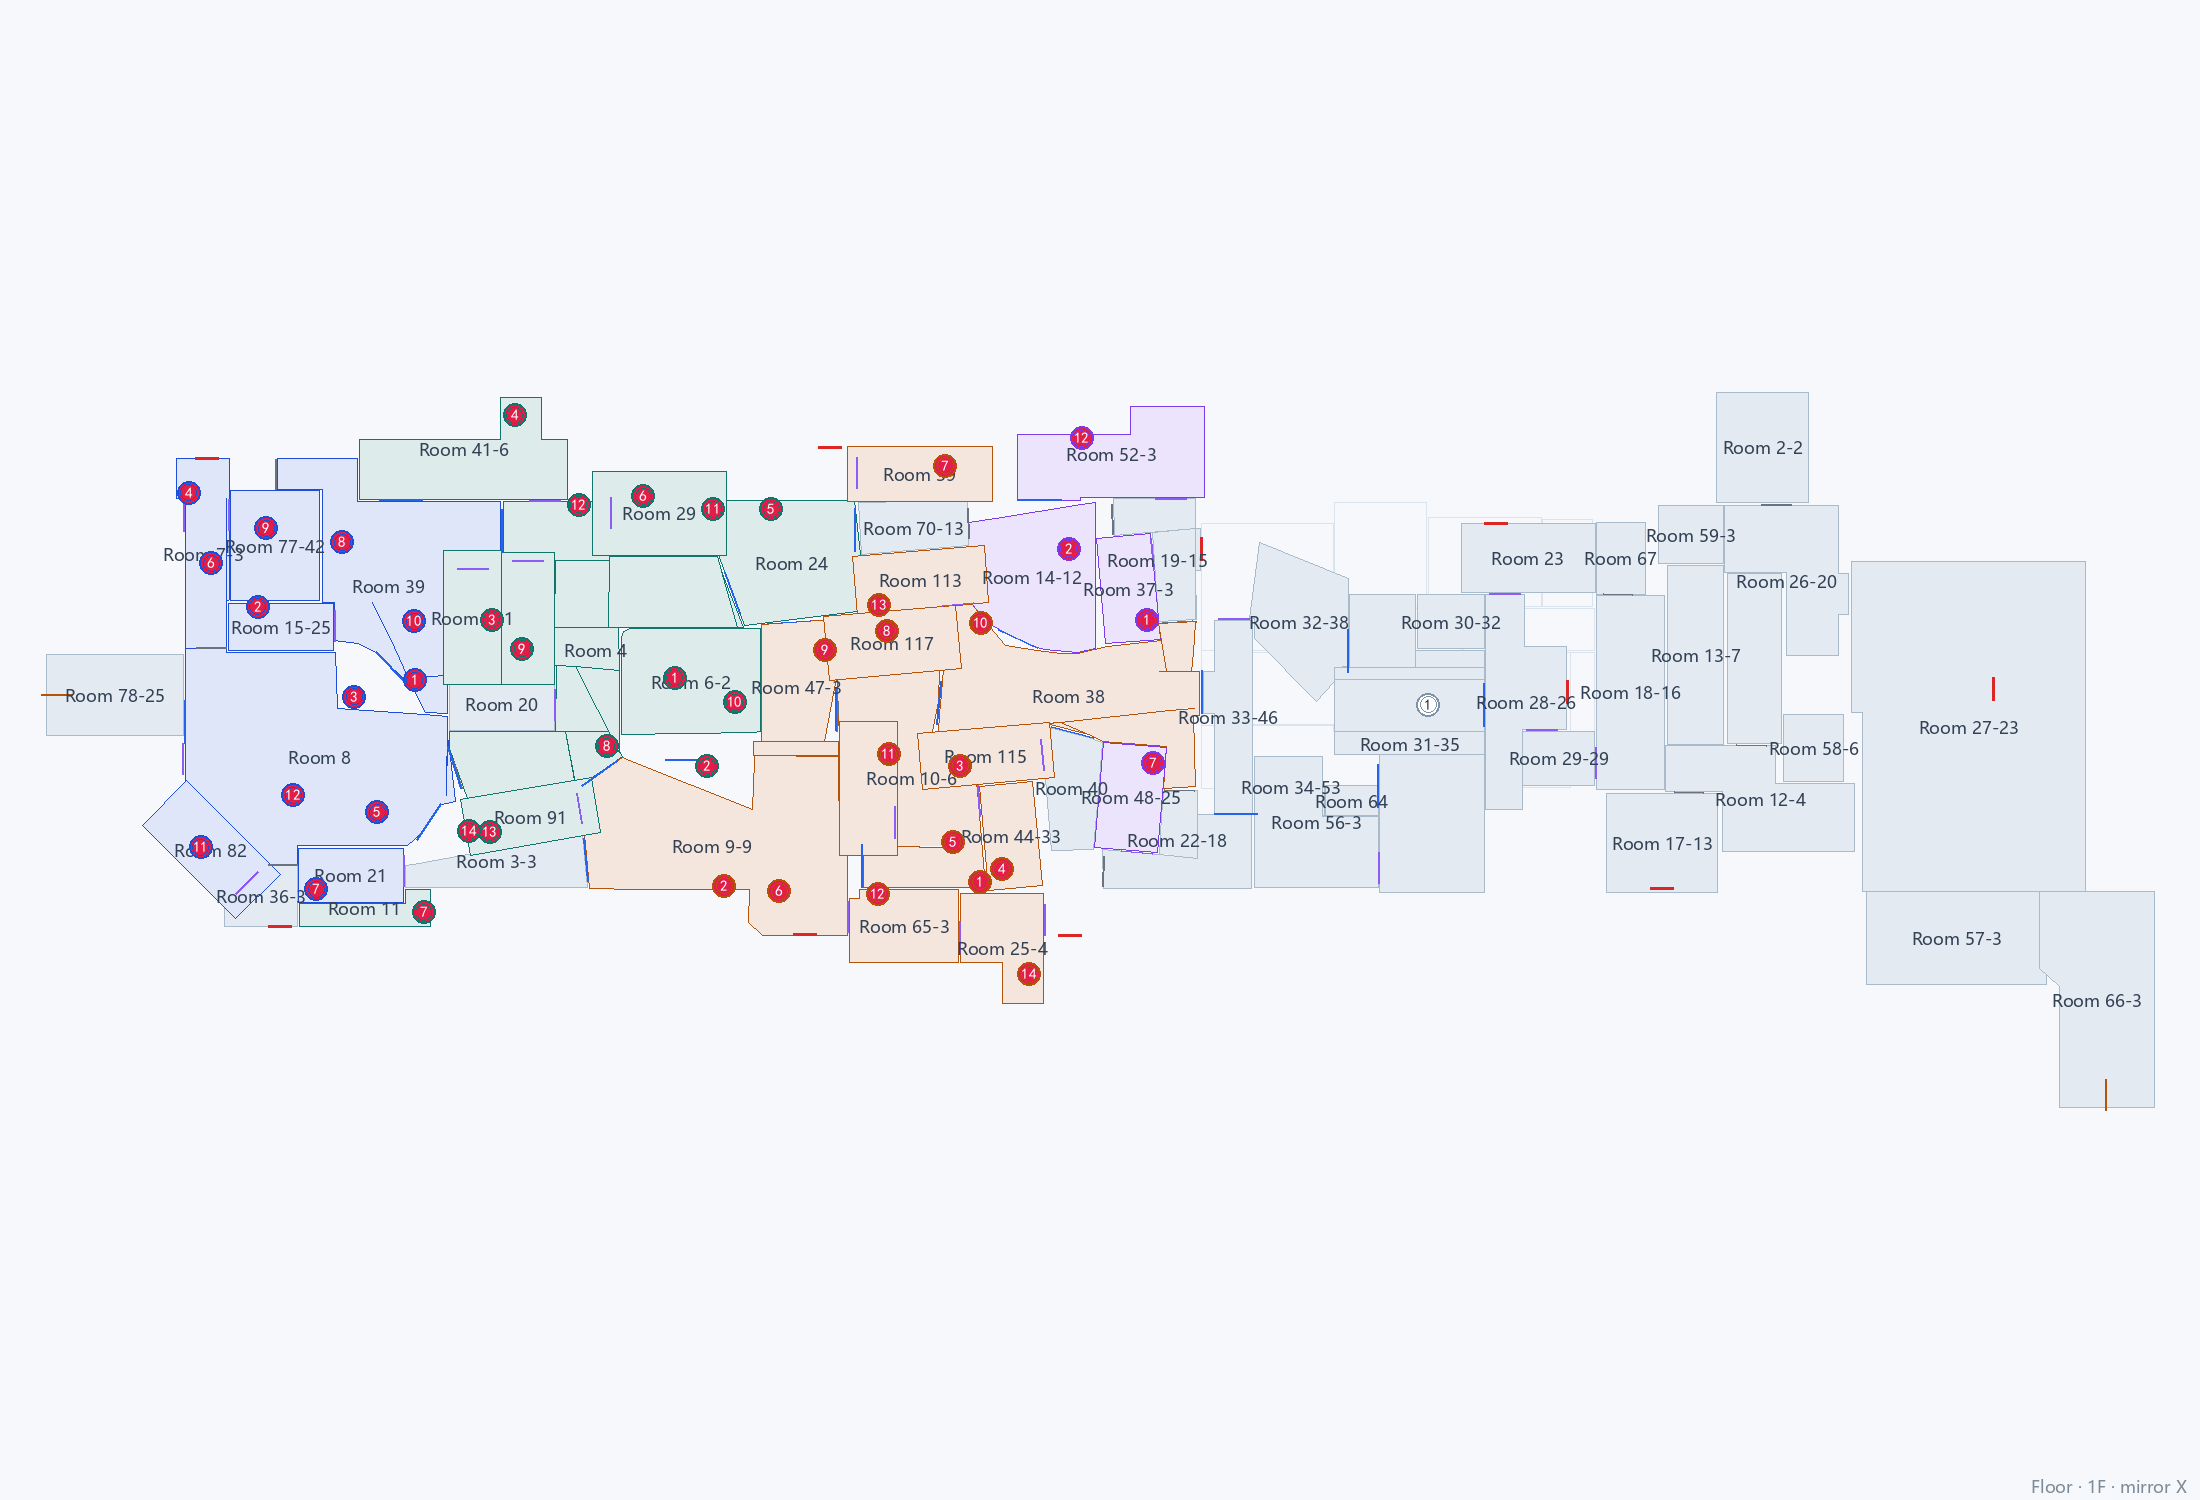
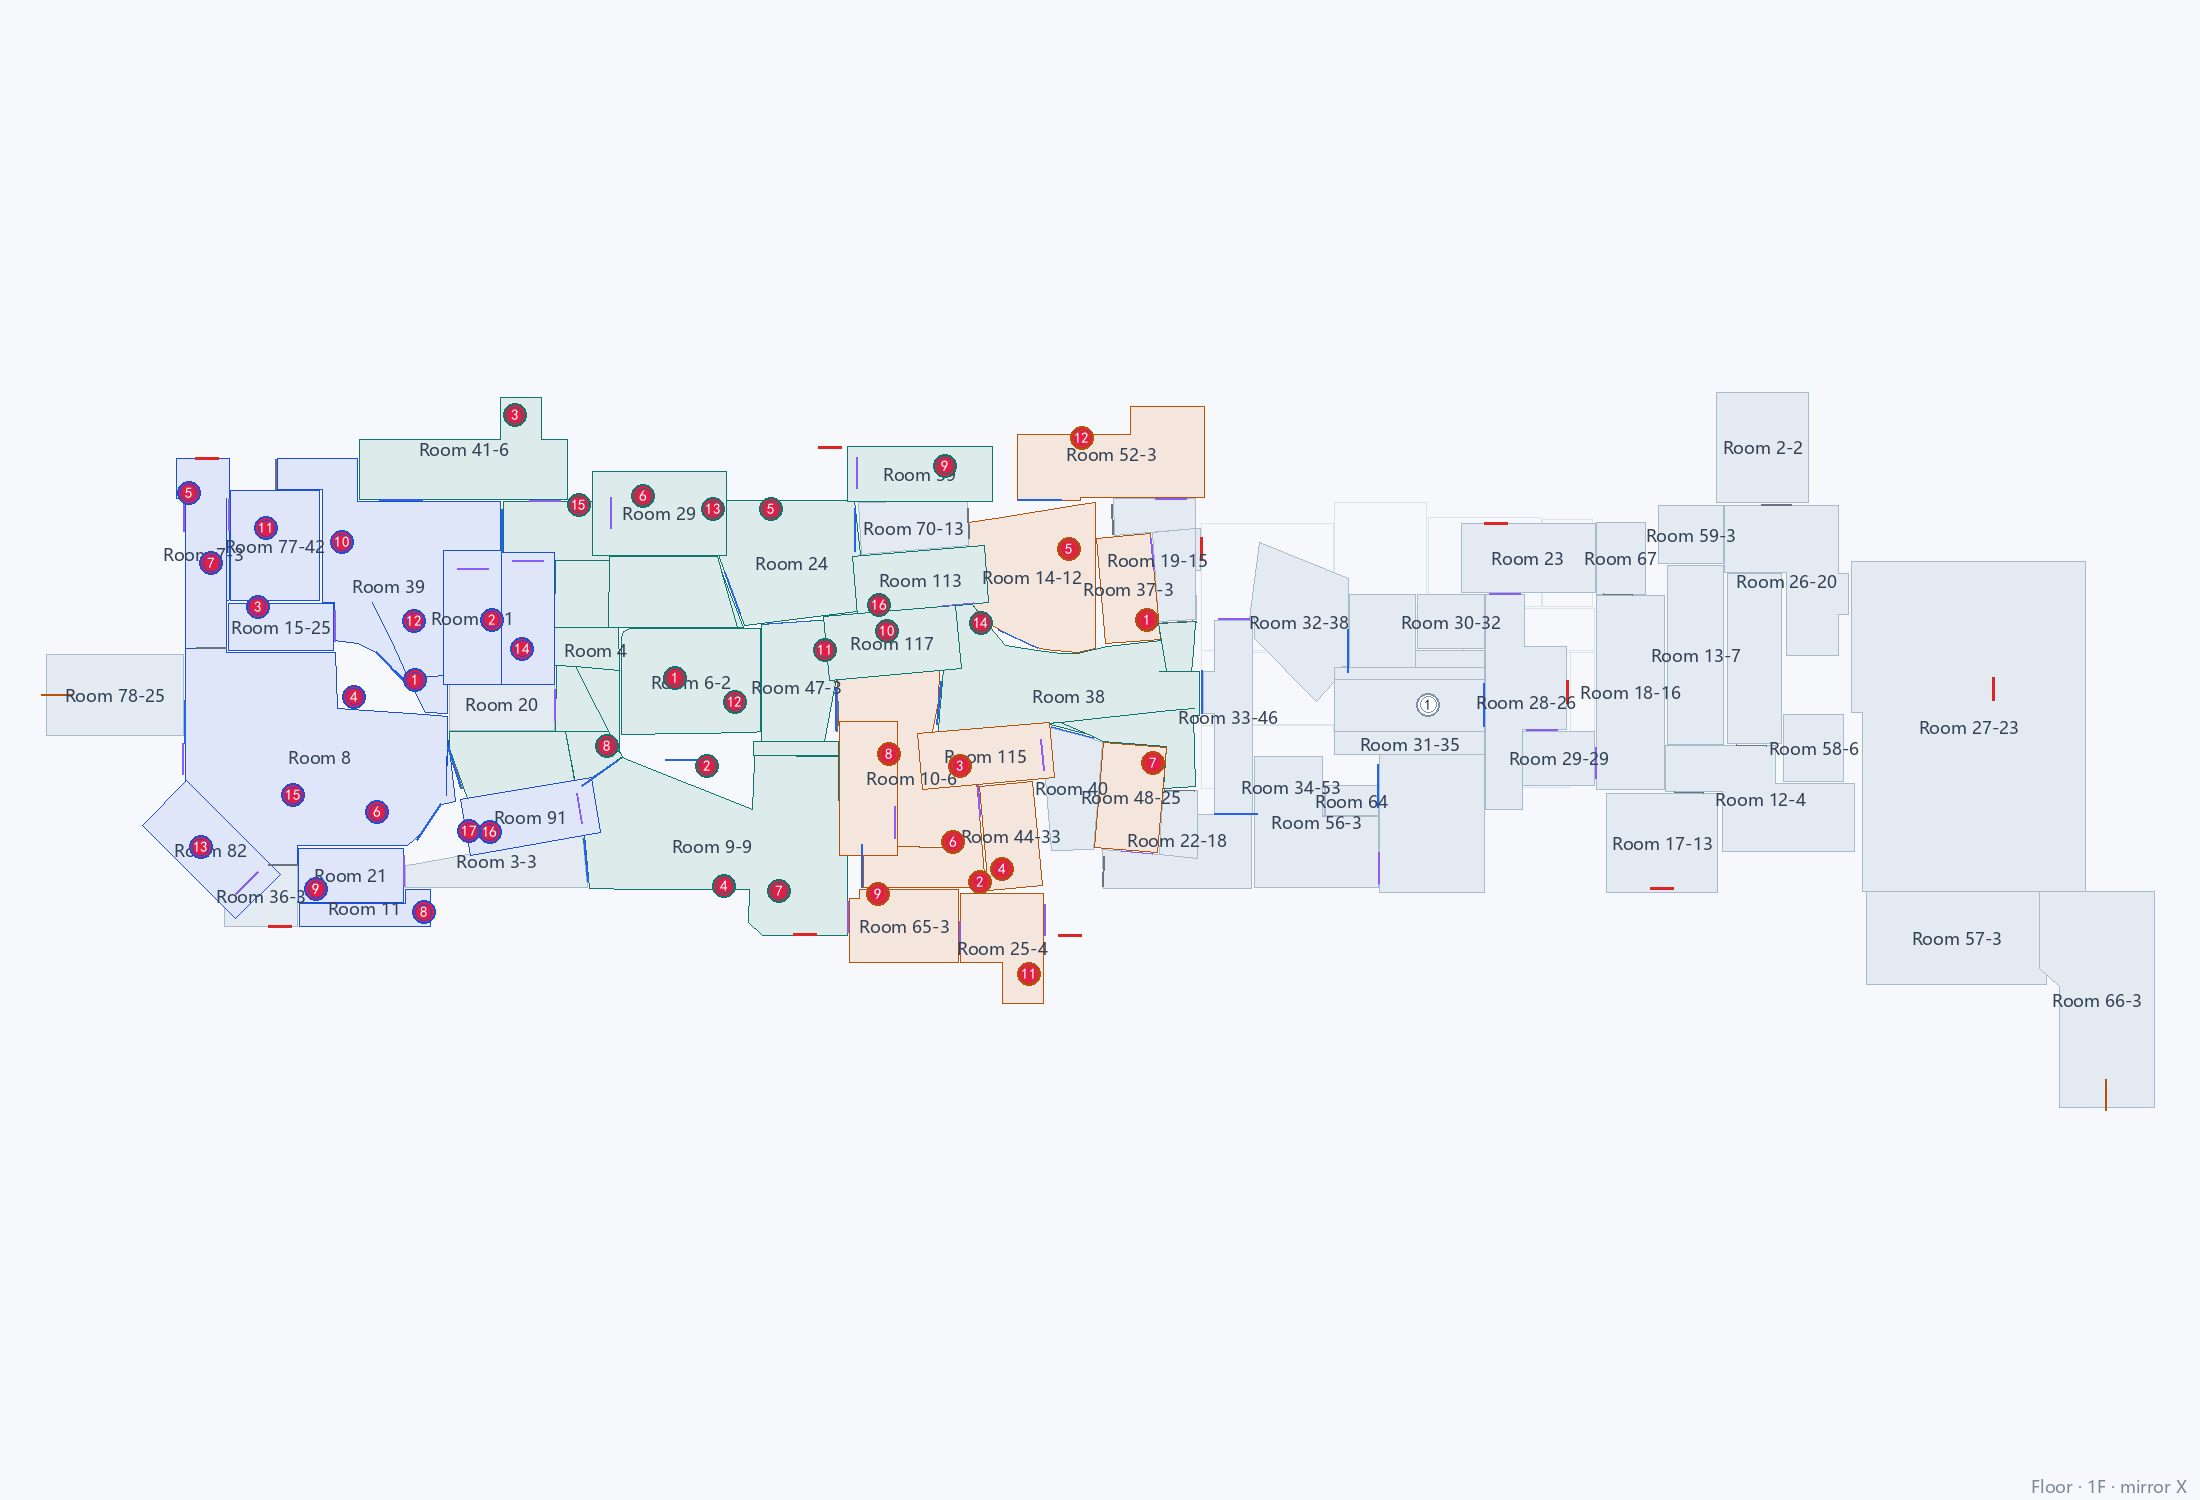
ui: FPB_MT01 分区改为「人偶所在区域」（26 个候选按房间聚成 4 片，区域整体上色）

diff --git a/ui/ZONES.md b/ui/ZONES.md
@@ -50,7 +50,7 @@
 | FPI_MT01 | FunParkIllusion | 16 | 4 | 中庭固定放映机 + 第 0/1/2 组 | ⚠ 中庭是固定点 |
 | CHJ_MT03 | CourthouseJudicial | 9 | 4 | 7 个法官按翼/庭院分布 | ⚠ 按地理切，不是按"每区几把钥匙" |
 | SRR_MT01 | SuburbRiotResidential | 136 | 6 | A–E 五组密码房 + F 其它 | ⚠ 多一个"其它"兜底区 |
-| FPB_MT01 | FunParkBarn | 53 | 4 | 4 个区域各 1 个人偶（每区 26 个候选里随机 1 个）+ 就近的解锁开关 | 关卡数据无 section 命名，分区按位置分 4 段 |
+| FPB_MT01 | FunParkBarn | 53 | 4 | **分区 = 人偶所在区域**：一局 4 个人偶、每区 1 个，26 个候选按所在房间聚成 4 片，每片带自己的解锁开关 | 关卡数据无 section 命名，区域名用序号 + 房间列表 |
 | PF_LD_T12 | PrisonFarm | 114 | 2 | 密码任务分 A / B 两区（四位密码各 2 位） | 猪头 17、阀门 14 是独立任务，不分区 |
 | MHS_MT03 | MobsterHideoutSyndicate | 20 | 3 | 3 片区域各藏 3 个毒品（共 9）：赌场 / Chemco 实验室 / 列车编组场 | 每区候选桶 6/8/5，每局各选 3 个 |
 | MHS_MT02 | MobsterHideoutSyndicate | 31 | 1 | 毒气桶全部集中在一片区域（毒品实验室），不分区 | 29 个桶 + 2 个泵/容器（泵在列车编组场，供灌注） |
